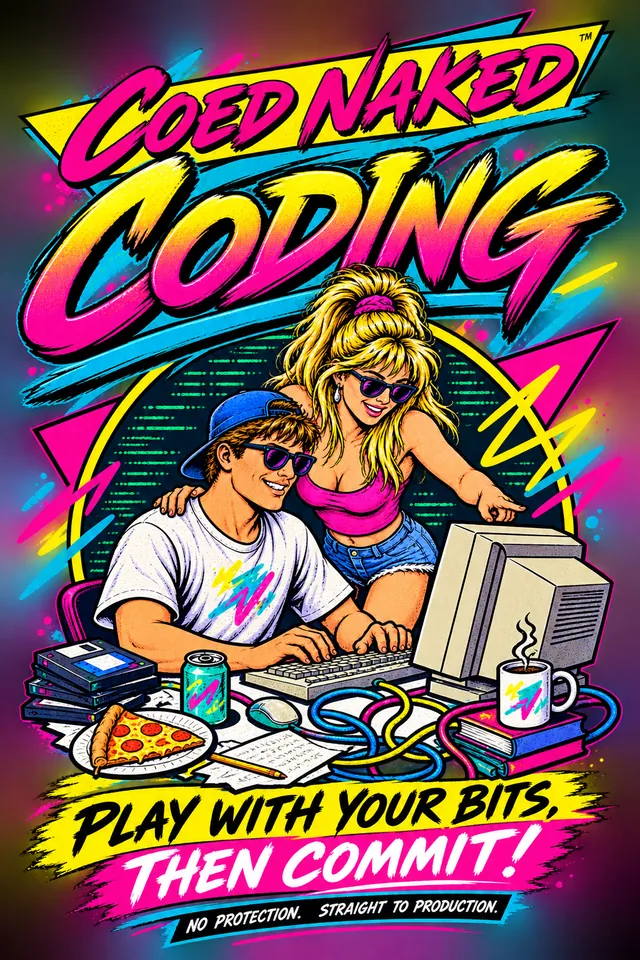
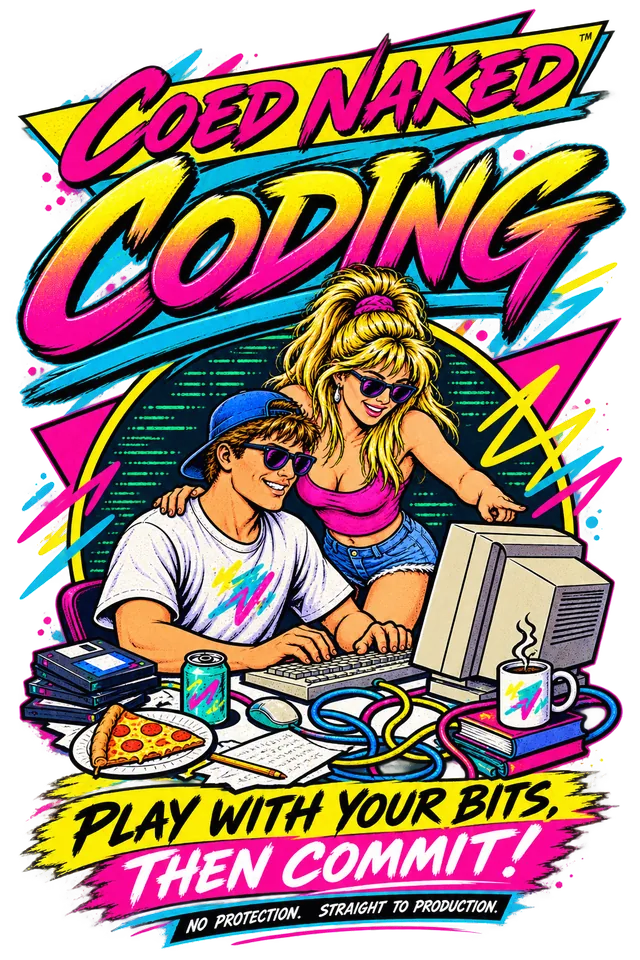
Preserve the poster's alpha channel instead of flattening it
The poster art is die-cut: ~18% of its pixels are fully transparent and the
outline is irregular. The original export called .convert("RGB"), which drops
the alpha channel rather than compositing, so the arbitrary RGB data stored
under the transparent pixels shipped as a rectangular background.

Re-export with alpha intact, resizing premultiplied so the cut edge doesn't
halo. og-card.jpg and apple-touch-icon.png are explicitly composited on the
page background since neither format carries alpha, and the favicon switches
to FASTOCTREE — the only PIL quantizer that survives an alpha channel — which
also drops it from 170 KB to 30 KB.

Swap the poster's box-shadow for filter: drop-shadow so the glow follows the
silhouette rather than the bounding box, and drop the border-radius and ring
that assumed a rectangle.

The export is now a committed script (assets-src/export.py) rather than an
ad-hoc one, and CLAUDE.md documents the die-cut constraints.

diff --git a/src/styles/base.css b/src/styles/base.css
@@ -52,6 +52,10 @@ body {
   padding: var(--gap-page);
 }
 
+/* The poster art is die-cut — an irregular outline with ~18% transparent
+   pixels. Glow must come from drop-shadow(), which follows the alpha channel;
+   box-shadow would trace the rectangular bounding box and expose the cut.
+   For the same reason: no border-radius, no ring, no background. */
 .poster {
   display: block;
   max-width: 100%;
@@ -59,12 +63,10 @@ body {
   width: auto;
   height: auto;
   object-fit: contain;
-  border-radius: 4px;
-  box-shadow:
-    0 0 0 1px color-mix(in srgb, var(--raw-chalk) 8%, transparent),
-    0 0 60px -12px var(--poster-glow),
-    0 0 120px -30px var(--poster-glow-cool),
-    0 24px 60px -24px rgb(0 0 0 / 0.85);
+  filter:
+    drop-shadow(0 0 24px var(--poster-glow))
+    drop-shadow(0 0 60px var(--poster-glow-cool))
+    drop-shadow(0 12px 28px rgb(0 0 0 / 0.7));
 }
 
 /* --- footer -------------------------------------------------------------- */

diff --git a/assets-src/export.py b/assets-src/export.py
@@ -1,0 +1,87 @@
+#!/usr/bin/env python3
+"""Export every web asset from assets-src/poster-original.png.
+
+Run from the project root:  python3 assets-src/export.py
+
+The poster is DIE-CUT: ~18% of its pixels are fully transparent and the outline
+is irregular (the neon bloom fades out to nothing). Two rules follow:
+
+  1. Never .convert("RGB") it. That drops the mask and exposes the arbitrary RGB
+     data stored underneath the transparent pixels as a rectangular background.
+  2. Resize premultiplied. PIL resamples colour and alpha independently, so on a
+     straight-alpha image those hidden colours bleed into the edge pixels and
+     leave a halo around the cut.
+
+JPEG and the iOS icon cannot carry alpha, so those two are explicitly composited
+onto the page background colour instead.
+"""
+import subprocess
+import tempfile
+from pathlib import Path
+
+import numpy as np
+from PIL import Image
+
+ROOT = Path(__file__).resolve().parent.parent
+SRC = ROOT / "assets-src" / "poster-original.png"
+IMG = ROOT / "public" / "images"
+PUB = ROOT / "public"
+
+BG = (8, 6, 13)  # --raw-ink #08060d, the page background
+
+poster = Image.open(SRC).convert("RGBA")
+W, H = poster.size
+
+
+def resize_rgba(im, size):
+    """Premultiply -> resize -> unpremultiply, so the cut edge stays clean."""
+    a = np.asarray(im, dtype=np.float64)
+    alpha = a[..., 3:4] / 255.0
+    prem = np.concatenate([a[..., :3] * alpha, a[..., 3:4]], axis=-1)
+    small = np.asarray(
+        Image.fromarray(prem.round().astype(np.uint8), "RGBA").resize(size, Image.LANCZOS),
+        dtype=np.float64,
+    )
+    sa = small[..., 3:4] / 255.0
+    rgb = np.divide(small[..., :3], sa, out=np.zeros_like(small[..., :3]), where=sa > 0)
+    out = np.concatenate([rgb.clip(0, 255), small[..., 3:4]], axis=-1)
+    return Image.fromarray(out.round().astype(np.uint8), "RGBA")
+
+
+def flatten(im):
+    bg = Image.new("RGB", im.size, BG)
+    bg.paste(im, mask=im.getchannel("A"))
+    return bg
+
+
+def webp(im, out, q):
+    with tempfile.NamedTemporaryFile(suffix=".png", delete=False) as t:
+        im.save(t.name)
+        subprocess.run(["cwebp", "-q", str(q), "-alpha_q", "100", "-m", "6",
+                        "-quiet", t.name, "-o", str(out)], check=True)
+    Path(t.name).unlink(missing_ok=True)
+    print(f"  {out.relative_to(ROOT)}  {out.stat().st_size // 1024} KB  {im.size}  alpha preserved")
+
+
+print(f"source {W}x{H} RGBA")
+
+# --- poster: alpha preserved, native width needs no resample --------------
+webp(poster, IMG / "poster.webp", 82)
+webp(resize_rgba(poster, (640, round(640 * H / W))), IMG / "poster-640.webp", 80)
+
+# --- og card: JPEG has no alpha, composite on the page background ---------
+band = flatten(resize_rgba(poster.crop((0, 40, W, 580)), (1200, 630)))
+band.save(IMG / "og-card.jpg", quality=86, optimize=True, progressive=True)
+print(f"  images/og-card.jpg  {(IMG / 'og-card.jpg').stat().st_size // 1024} KB  flattened on #08060d")
+
+# --- icons: crop of the two characters ------------------------------------
+# This crop is NOT fully opaque, so the favicon keeps its alpha. FASTOCTREE is
+# the one PIL quantizer that survives an alpha channel; it takes the icon from
+# ~170 KB to ~40 KB, and the lost colour depth is invisible at tab size.
+icon = poster.crop((296, 436, 736, 876))
+resize_rgba(icon, (256, 256)).quantize(
+    colors=128, method=Image.Quantize.FASTOCTREE).save(PUB / "favicon.png", optimize=True)
+# iOS composites apple-touch-icon onto black regardless, so match the site.
+flatten(resize_rgba(icon, (180, 180))).save(PUB / "apple-touch-icon.png", optimize=True)
+print(f"  favicon.png  {(PUB / 'favicon.png').stat().st_size // 1024} KB  alpha preserved")
+print(f"  apple-touch-icon.png  {(PUB / 'apple-touch-icon.png').stat().st_size // 1024} KB  flattened")

diff --git a/CLAUDE.md b/CLAUDE.md
@@ -36,20 +36,44 @@ ancestor has a resolvable height — if you touch this, re-check all three:
 `100svh` (small viewport height) is deliberate: mobile browser chrome must not
 be able to push the footer off-screen.
 
+## The poster is die-cut — do not flatten it
+
+`assets-src/poster-original.png` is RGBA with a real mask: ~18% of its pixels
+are fully transparent and the outline is irregular, because the neon bloom
+fades out to nothing rather than stopping at a rectangle. Two consequences,
+both of which have already been gotten wrong once:
+
+- **Never `.convert("RGB")` it.** PIL drops the alpha channel rather than
+  compositing, which exposes the arbitrary RGB data stored *underneath* the
+  transparent pixels — it renders as a rectangular background that looks
+  deliberate but isn't.
+- **Never give the poster `box-shadow` or `border-radius`.** Those trace the
+  rectangular bounding box and draw a visible edge in empty space. Glow comes
+  from `filter: drop-shadow()`, which follows the alpha channel.
+
+Resizing must be premultiplied — PIL resamples colour and alpha independently,
+so on straight alpha the hidden colours bleed into edge pixels and halo the
+cut. `resize_rgba()` in the export script handles this.
+
 ## Asset drop-in contract
 
 `assets-src/` holds the original art (git-tracked, NOT shipped);
 `public/images/` holds the optimized exports. To swap in new poster art,
-overwrite `assets-src/poster-original.png` and re-run the export — it derives
-every other asset from that one file:
+overwrite `assets-src/poster-original.png` and run `python3
+assets-src/export.py` from the project root — it derives every other asset from
+that one file. Needs `pillow`, `numpy`, and `cwebp` on PATH.
 
-| Output | What | How |
+| Output | What | Alpha |
 |---|---|---|
-| `public/images/poster.webp` | 1024w, cwebp q82 | full-size poster |
-| `public/images/poster-640.webp` | 640w, cwebp q80 | small-screen srcset entry |
-| `public/images/og-card.jpg` | 1200×630, q86 | crop of source rows 40–580 (the title band), scaled — the poster is 2:3 and cannot be letterboxed into a social card |
-| `public/favicon.png` | 256², 128-color | square crop `(296, 436, 736, 876)` — the two characters |
-| `public/apple-touch-icon.png` | 180² | same crop |
+| `public/images/poster.webp` | 1024w, cwebp q82 `-alpha_q 100` | **preserved** |
+| `public/images/poster-640.webp` | 640w, cwebp q80 | **preserved** |
+| `public/images/og-card.jpg` | 1200×630 q86, crop of source rows 40–580 (the title band) — the poster is 2:3 and cannot letterbox into a social card | flattened on `#08060d`; JPEG has no alpha |
+| `public/favicon.png` | 256², FASTOCTREE 128-colour, crop `(296, 436, 736, 876)` | **preserved** — that crop is not fully opaque |
+| `public/apple-touch-icon.png` | 180², same crop | flattened; iOS composites on black regardless |
+
+`FASTOCTREE` is the only PIL quantizer that survives an alpha channel — the
+default `MEDIANCUT` silently drops it. It takes the favicon from ~170 KB to
+~30 KB with no visible loss at tab size.
 
 There is deliberately no PNG poster fallback; it cost 1.7 MB and WebP is
 universal. If the art changes aspect ratio, update the `width`/`height`
